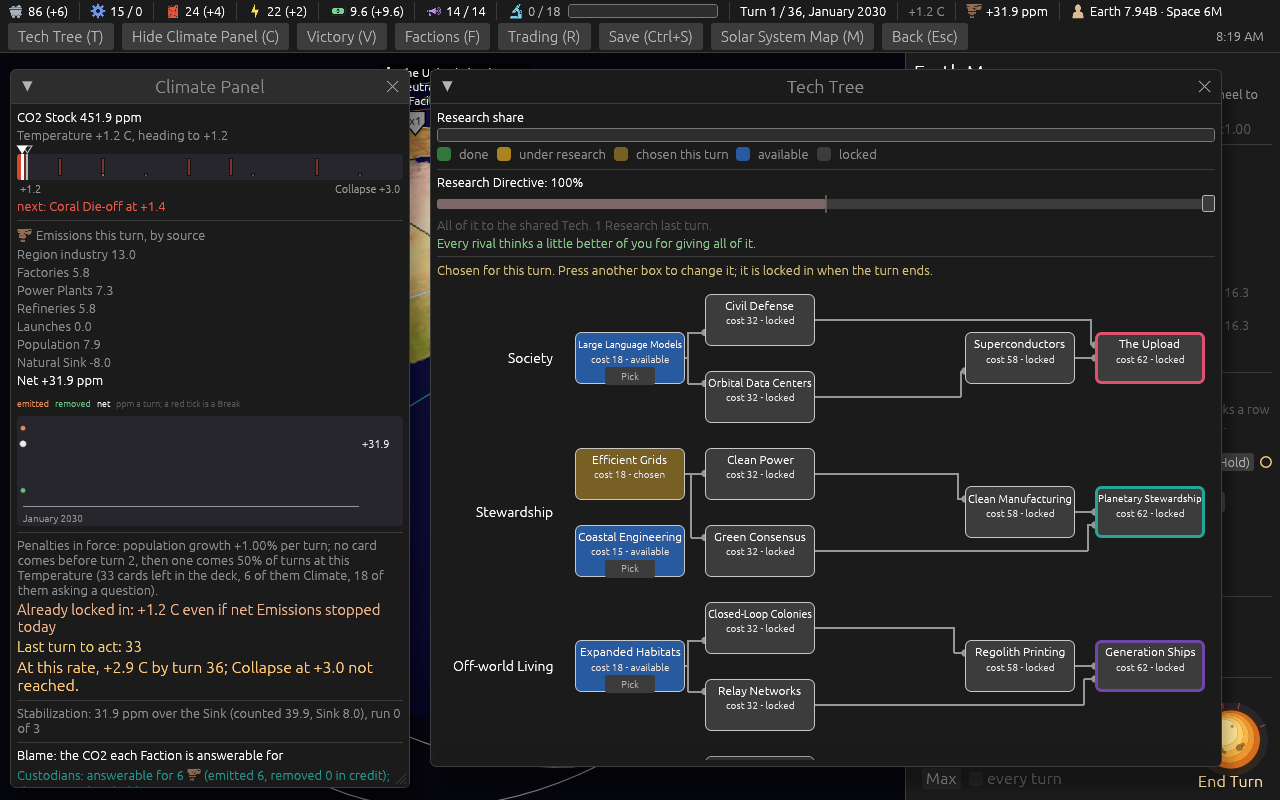
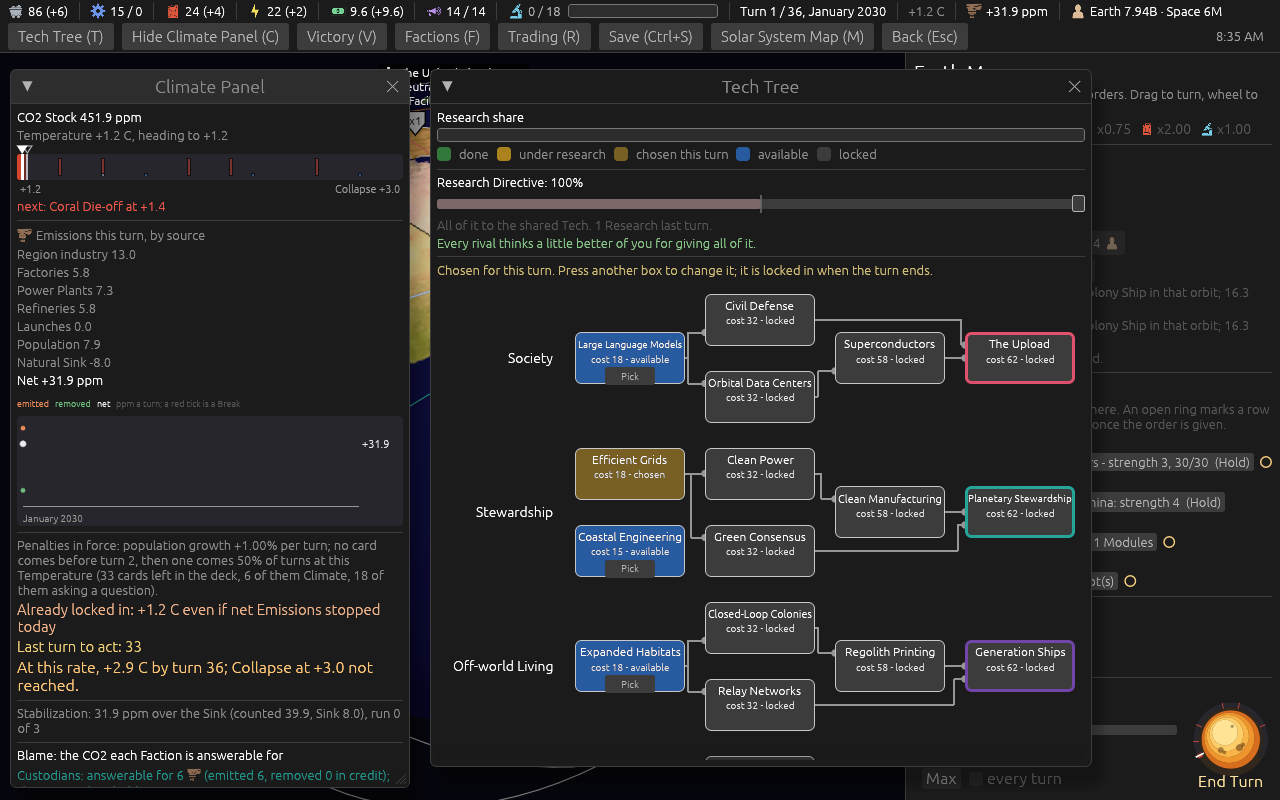
The Tech tree on four rungs, the gates on the fourth (#505)
The designer, on the picture: "there should only be four rungs". A rung is
a column of the drawing and the price is each Tech's own, so the four
58-Research Techs sit on rung 3 beside Hardened Hulls and Missile
Technology at 48, and the gates on rung 4 at 62. No price or prerequisite
moves; the sweep stands. Spec section 6, CONTEXT.md, the diary and the
picture say so.

diff --git a/engine/tests/formulas.rs b/engine/tests/formulas.rs
@@ -4603,7 +4603,7 @@ fn f_coastal_engineering_is_the_thirteenth_tech() {
     // Ticket #426 (version 0.09.5): twenty-five, with Commodity Finance on Extraction rung 2.
     // Ticket #433 (version 0.09.5): twenty-six, with Orbital Data Centers on Society rung 2.
     // Ticket #505 (version 0.1.0.0): twenty-nine, with Regolith Printing, Rail Gun Freight and
-    // Superconductors on rung 4.
+    // Superconductors on rung 3 at 58.
     assert_eq!(TechId::ALL.len(), 29, "thirteen Techs, the four gates, Civil Defense, #232's two, Missile Technology, Nuclear Rockets, Orbital Refuelling, Cryogenic Tanks, Commodity Finance, Orbital Data Centers and #505's three");
     assert_eq!(g.tables.techs.len(), 29, "and twenty-nine rows in techs.toml");
     let c = g.tables.tech(TechId::CoastalEngineering);
@@ -4620,11 +4620,9 @@ fn f_coastal_engineering_is_the_thirteenth_tech() {
     let on_rung = |r: u32| -> Vec<&str> { TechId::ALL.into_iter().map(|t| g.tables.tech(t)).filter(|t| t.branch == "Stewardship" && t.rung == r).map(|t| t.name.as_str()).collect() };
     assert_eq!(on_rung(1), vec!["Efficient Grids", "Coastal Engineering"], "two boxes on Stewardship rung 1");
     assert_eq!(on_rung(2), vec!["Clean Power", "Green Consensus"]);
-    // Ticket #505 (version 0.1.0.0): Clean Manufacturing up to rung 4 and the gate to rung 5, so the
-    // line's rung 3 is empty.
-    assert!(on_rung(3).is_empty(), "nothing on Stewardship rung 3 since ticket #505");
-    assert_eq!(on_rung(4), vec!["Clean Manufacturing"]);
-    assert_eq!(on_rung(5), vec!["Planetary Stewardship"]);
+    // Ticket #505 (version 0.1.0.0): the gate to rung 4, so Clean Manufacturing has rung 3 to itself.
+    assert_eq!(on_rung(3), vec!["Clean Manufacturing"]);
+    assert_eq!(on_rung(4), vec!["Planetary Stewardship"]);
     // The Sea Wall's card names it as its unlock, and there are fifteen Facilities in version
     // 0.08.0: ten through version 0.07, the School on ticket #185, and the four Unique Facilities on
     // tickets #182 to #186 -- the Investment Bank, the Spaceport, the Reactor and the Academy.
@@ -6848,8 +6846,8 @@ fn the_four_gates_stand_on_rung_three_at_one_price_with_their_prerequisites() {
     let g = game();
     let gates = [
         // Ticket #424 (version 0.09.5): the designer's three, the whole road in Stewardship.
-        // Ticket #505 (version 0.1.0.0): every gate on rung 5 at 62, through its branch's rung-4
-        // Tech, which stands in for the rung-2 Tech under it.
+        // Ticket #505 (version 0.1.0.0): every gate on rung 4 at 62, through its branch's 58-Research
+        // rung-3 Tech, which stands in for the rung-2 Tech under it.
         (FactionKind::Custodians, TechId::PlanetaryStewardship, vec![TechId::CleanManufacturing, TechId::GreenConsensus]),
         // Ticket #242 (version 0.08.3): Beneficiation joined, so the new Tech sits in the
         // branch's spine rather than being a leaf nobody has to take.
@@ -6869,10 +6867,10 @@ fn the_four_gates_stand_on_rung_three_at_one_price_with_their_prerequisites() {
     // ticket guards is that no Faction's gate is dearer than another's, so the figure is checked
     // against the rung rather than against a literal repeated four times.
     let gate_cost = g.tables.tech(TechId::PlanetaryStewardship).cost;
-    assert_eq!(gate_cost, 62, "the gates cost 62 on rung 5 since ticket #505 (version 0.1.0.0); 48 on rung 3 since #231, 45 from #142, 44 from #117, 40 before");
+    assert_eq!(gate_cost, 62, "the gates cost 62 on rung 4 since ticket #505 (version 0.1.0.0); 48 on rung 3 since #231, 45 from #142, 44 from #117, 40 before");
     for (kind, t, needs) in gates {
         let card = g.tables.tech(t);
-        assert_eq!(card.rung, 5, "{t:?}");
+        assert_eq!(card.rung, 4, "{t:?}");
         assert_eq!(card.cost, gate_cost, "every gate costs the same: {t:?}");
         assert_eq!(card.gate_for, Some(kind), "{t:?}");
         assert_eq!(card.needs, needs, "{t:?}");
@@ -6897,7 +6895,7 @@ fn the_four_gates_stand_on_rung_three_at_one_price_with_their_prerequisites() {
     // so the whole Archive chain sits behind those four.
     // Ticket #424 (version 0.09.5): the Archivists' two, all in Society; the Custodians' three,
     // all in Stewardship.
-    // Ticket #505 (version 0.1.0.0): four each, the rung-4 Tech on every road.
+    // Ticket #505 (version 0.1.0.0): four each, the 58-Research Tech on every road.
     assert_eq!(depth(TechId::TheUpload), 4, "the Archivists' gate, two deep since ticket #424, three since #433, four since #505");
     assert_eq!(depth(TechId::PlanetaryStewardship), 4, "the Custodians', three since ticket #424, four since #505");
     // Ticket #425 (version 0.09.5): Clean Power off Closed-Loop Colonies, Efficient Grids off
@@ -10583,12 +10581,14 @@ fn the_tree_costs_eighteen_thirty_two_and_forty_eight_by_rung() {
         if t == TechId::CoastalEngineering || t == TechId::NuclearRockets || t == TechId::OrbitalRefuelling {
             continue;
         }
-        // Ticket #505 (version 0.1.0.0): rung 4 at 58 and the gates' rung 5 at 62.
+        // Ticket #505 (version 0.1.0.0): rung 3 holds four Techs at 58 beside its 48s -- a rung is a
+        // column, the price each Tech's own -- and the gates' rung 4 costs 62.
+        let fifty_eight = [TechId::CleanManufacturing, TechId::RegolithPrinting, TechId::RailGunFreight, TechId::Superconductors];
         let want = match card.rung {
             1 => 18,
             2 => 32,
+            3 if fifty_eight.contains(&t) => 58,
             3 => 48,
-            4 => 58,
             _ => 62,
         };
         assert_eq!(card.cost, want, "rung {} costs {want}: {t:?}", card.rung);
@@ -10596,7 +10596,7 @@ fn the_tree_costs_eighteen_thirty_two_and_forty_eight_by_rung() {
     let total: i64 = TechId::ALL.into_iter().map(|t| g.tables.tech(t).cost).sum();
     assert_eq!(g.tables.tech(TechId::NuclearRockets).cost, 38, "priced above its rung");
     assert_eq!(g.tables.tech(TechId::OrbitalRefuelling).cost, 22, "priced above its rung");
-    assert_eq!(total, 1093, "the whole tree since ticket #505's five rungs (the gates 48 to 62, Clean Manufacturing 48 to 58, three new at 58); 853 since ticket #433's Orbital Data Centers (32 on rung 2); 821 from #426's Commodity Finance (32 on rung 2); 789 from #420's Cryogenic Tanks (32 on rung 2); 757 from #413's Orbital Refuelling (22 on rung 1); 735 from #393, 697 from #343, 649 from #232, 585 from #231, 554 from #201, 507 before that");
+    assert_eq!(total, 1093, "the whole tree since ticket #505's fourth rung (the gates 48 to 62, Clean Manufacturing 48 to 58, three new at 58); 853 since ticket #433's Orbital Data Centers (32 on rung 2); 821 from #426's Commodity Finance (32 on rung 2); 789 from #420's Cryogenic Tanks (32 on rung 2); 757 from #413's Orbital Refuelling (22 on rung 1); 735 from #393, 697 from #343, 649 from #232, 585 from #231, 554 from #201, 507 before that");
 }
 
 // ------------------------------------------------------- 0.08.1 ticket #208: the School's step
@@ -18398,7 +18398,7 @@ fn four_prerequisites_moved_at_the_designers_word() {
     assert_eq!(t.tech(TechId::EfficientTransit).needs, vec![TechId::OrbitalRefuelling], "Orbital Refuelling in place of Clean Propellant");
     assert!(!t.gate_chain(FactionKind::Prospectors).contains(&TechId::EfficientGrids), "the Charter no longer reaches Efficient Grids");
     assert!(!t.gate_chain(FactionKind::Arkwrights).contains(&TechId::CleanPower), "Generation Ships no longer reaches Clean Power");
-    // Ticket #505 (version 0.1.0.0): 202 each, the rung-4 Tech and the gate at 62 on every road.
+    // Ticket #505 (version 0.1.0.0): 202 each, the 58-Research Tech and the gate at 62 on every road.
     assert_eq!(price(FactionKind::Prospectors), 202, "Deep Mining, Automated Refining, Commodity Finance, Rail Gun Freight and the Charter; 130 before #505, 148 before #425");
     // Ticket #438 (version 0.09.6): 130 since Generation Ships needs Relay Networks as well.
     assert_eq!(price(FactionKind::Arkwrights), 202, "Expanded Habitats, Closed-Loop Colonies, Relay Networks, Regolith Printing and Generation Ships; 130 before #505, 98 before #438");
@@ -21346,26 +21346,28 @@ fn ticket_502_a_missing_gulf_refuses_the_table() {
     let _ = std::fs::remove_dir_all(&dir);
 }
 
-// ---------------------------------------------------------------- Ticket #505 (version 0.1.0.0): the gates on rung 5, new rung-4 Techs
+// ---------------------------------------------------------------- Ticket #505 (version 0.1.0.0): the gates on rung 4, new 58-Research Techs on rung 3
 
-/// Ticket #505: **five rungs.** Rung 4 costs 58 and holds Clean Manufacturing (up from rung 3) and
-/// three new Techs, one to a branch; the four gates stand on rung 5 at 62, each needing its
-/// branch's rung-4 Tech and the other rung-2 Tech on its road. Every road is 202, the tree 29 Techs
-/// and 1,093 Research. Each computer seat's list opens with its whole road, and the new Techs are
-/// on no rival's list.
+/// Ticket #505: **four rungs, the gates on the fourth.** Rung 3 holds Hardened Hulls and Missile
+/// Technology at 48 and four Techs at 58 -- Clean Manufacturing (raised) and three new, one to a
+/// branch; the four gates stand on rung 4 at 62, each needing its branch's 58-Research Tech and
+/// the other rung-2 Tech on its road. Every road is 202, the tree 29 Techs and 1,093 Research. Each
+/// computer seat's list opens with its whole road, and the new Techs are on no rival's list. (The
+/// 58s were first a rung of their own, the gates a fifth; the designer: "there should only be four
+/// rungs".)
 #[test]
-fn the_gates_stand_on_rung_five_behind_a_rung_four_tech_of_their_own_branch() {
+fn the_gates_stand_on_rung_four_behind_a_fifty_eight_research_tech_of_their_own_branch() {
     let t = tables();
     assert_eq!(TechId::ALL.len(), 29);
     let on_rung = |r: u32| -> Vec<TechId> { TechId::ALL.into_iter().filter(|x| t.tech(*x).rung == r).collect() };
-    assert_eq!(on_rung(4), vec![TechId::CleanManufacturing, TechId::RegolithPrinting, TechId::RailGunFreight, TechId::Superconductors]);
-    assert!(on_rung(4).iter().all(|x| t.tech(*x).cost == 58), "rung 4 costs 58");
-    assert_eq!(on_rung(5), vec![TechId::PlanetaryStewardship, TechId::ExtractionCharter, TechId::GenerationShips, TechId::TheUpload]);
-    assert_eq!(on_rung(3), vec![TechId::HardenedHulls, TechId::MissileTechnology], "Propulsion alone keeps rung 3");
+    assert_eq!(on_rung(3), vec![TechId::CleanManufacturing, TechId::HardenedHulls, TechId::MissileTechnology, TechId::RegolithPrinting, TechId::RailGunFreight, TechId::Superconductors]);
+    assert_eq!(on_rung(3).iter().map(|x| t.tech(*x).cost).collect::<Vec<i64>>(), vec![58, 48, 48, 58, 58, 58], "rung 3: Propulsion's two at 48, the four steps to a gate at 58");
+    assert_eq!(on_rung(4), vec![TechId::PlanetaryStewardship, TechId::ExtractionCharter, TechId::GenerationShips, TechId::TheUpload]);
+    assert_eq!(TechId::ALL.iter().map(|x| t.tech(*x).rung).max(), Some(4), "four rungs and no fifth");
     let fourth = [(FactionKind::Custodians, TechId::CleanManufacturing, TechId::CleanPower), (FactionKind::Prospectors, TechId::RailGunFreight, TechId::AutomatedRefining), (FactionKind::Arkwrights, TechId::RegolithPrinting, TechId::ClosedLoopColonies), (FactionKind::Archivists, TechId::Superconductors, TechId::OrbitalDataCenters)];
     for (k, step, under) in fourth {
         let gate = t.victory_gate(k).unwrap();
-        assert_eq!((t.tech(gate).rung, t.tech(gate).cost), (5, 62), "{k:?}");
+        assert_eq!((t.tech(gate).rung, t.tech(gate).cost), (4, 62), "{k:?}");
         assert_eq!(t.tech(step).needs, vec![under], "{step:?} needs the rung-2 Tech under it alone");
         assert_eq!(t.tech(step).branch, t.tech(gate).branch, "{step:?} is in its gate's branch");
         assert!(t.tech(gate).needs.contains(&step) && !t.tech(gate).needs.contains(&under), "the gate lists {step:?} and not {under:?}, reached through it");

diff --git a/engine/src/ids.rs b/engine/src/ids.rs
@@ -673,7 +673,7 @@ pub enum TechId {
     /// Constabulary adds 10 to the challenge margin where it adds 5 without.
     CivilDefense,
     /// Version 0.06.0 (ticket #84): the four gates, one per Faction, on rung 3 until ticket #505
-    /// (version 0.1.0.0) moved them to rung 5. Each opens its Faction's Victory Condition and is a
+    /// (version 0.1.0.0) moved them to rung 4 at 62. Each opens its Faction's Victory Condition and is a
     /// Tech for everyone besides.
     PlanetaryStewardship,
     ExtractionCharter,
@@ -715,14 +715,14 @@ pub enum TechId {
     /// needs it beside Civil Defense. Observatory Research x1.5, on Large Language Models' and The
     /// Upload's.
     OrbitalDataCenters,
-    /// Ticket #505 (version 0.1.0.0): Off-world Living rung 4, needing Closed-Loop Colonies, at 58;
+    /// Ticket #505 (version 0.1.0.0): Off-world Living rung 3, needing Closed-Loop Colonies, at 58;
     /// Generation Ships needs it. A Module built off Earth costs x0.75 Materials and x0.85 Widgets,
     /// inside the in-situ floor.
     RegolithPrinting,
-    /// Ticket #505 (version 0.1.0.0): Extraction rung 4, needing Automated Refining, at 58; the
+    /// Ticket #505 (version 0.1.0.0): Extraction rung 3, needing Automated Refining, at 58; the
     /// Extraction Charter needs it. Every working Mass Driver pays 3 Ducats a turn.
     RailGunFreight,
-    /// Ticket #505 (version 0.1.0.0): Society rung 4, needing Orbital Data Centers, at 58; The
+    /// Ticket #505 (version 0.1.0.0): Society rung 3, needing Orbital Data Centers, at 58; The
     /// Upload needs it. Every Energy output x1.25, in Efficient Grids' chain.
     Superconductors,
 }

diff --git a/CONTEXT.md b/CONTEXT.md
@@ -191,15 +191,15 @@ The Tech, since version 0.09.4, that adds fifteen Fuel to every Ship's Tank: Pro
 _Avoid_: Deep Tanks (its first name), fuel tanks, extended tanks
 
 **Regolith Printing**:
-The Tech, since version 0.1.0.0, that cuts what a Module costs off Earth: Off-world Living, rung 4, needing Closed-Loop Colonies and needed by Generation Ships, at 58 Research. At a ground Colony on any Body but Earth, or at any Space Station, a Module costs three quarters of its Materials and 85 per cent of its Widgets, inside the Faction's discount and Build Where You Dig, so the floor of half the row still holds; Antarctica pays the full price.
+The Tech, since version 0.1.0.0, that cuts what a Module costs off Earth: Off-world Living, rung 3, needing Closed-Loop Colonies and needed by Generation Ships, at 58 Research. At a ground Colony on any Body but Earth, or at any Space Station, a Module costs three quarters of its Materials and 85 per cent of its Widgets, inside the Faction's discount and Build Where You Dig, so the floor of half the row still holds; Antarctica pays the full price.
 _Avoid_: 3D printing, printed habs, cheap habitats
 
 **Rail Gun Freight**:
-The Tech, since version 0.1.0.0, that makes a Mass Driver pay: Extraction, rung 4, needing Automated Refining and needed by The Extraction Charter, at 58 Research. Every working Mass Driver pays its holder three Ducats a turn, flat, beside its Fuel cut and its Mines' extra Materials.
+The Tech, since version 0.1.0.0, that makes a Mass Driver pay: Extraction, rung 3, needing Automated Refining and needed by The Extraction Charter, at 58 Research. Every working Mass Driver pays its holder three Ducats a turn, flat, beside its Fuel cut and its Mines' extra Materials.
 _Avoid_: railgun commerce, mass driver freight, launch contracts
 
 **Superconductors**:
-The Tech, since version 0.1.0.0, that lifts every Energy output by a quarter: Society, rung 4, needing Orbital Data Centers and needed by The Upload, at 58 Research. It reaches the Power Plant, the Reactor, the Generator, the Solar Array and the Heliostat, in the same chain as Efficient Grids, so the two multiply. Chosen for the Archive's twelve Energy a turn, the dearest upkeep in the game.
+The Tech, since version 0.1.0.0, that lifts every Energy output by a quarter: Society, rung 3, needing Orbital Data Centers and needed by The Upload, at 58 Research. It reaches the Power Plant, the Reactor, the Generator, the Solar Array and the Heliostat, in the same chain as Efficient Grids, so the two multiply. Chosen for the Archive's twelve Energy a turn, the dearest upkeep in the game.
 _Avoid_: superconducting grids, energy tech, power boost
 
 **opens_on**:
@@ -207,7 +207,7 @@ The Region a Faction's card names for the start screen's globe to face. It has o
 _Avoid_: home, capital, start state, homeland
 
 **Tech Tree**:
-The single tree of Techs shared by all Factions: twenty-nine since version 0.1.0.0, which added Regolith Printing, Rail Gun Freight and Superconductors on a fourth rung at 58 Research, moved Clean Manufacturing up to it and the four Victory gates to a fifth rung at 62 (twenty-six from 0.09.5, which added Commodity Finance on Extraction's rung 2 and Orbital Data Centers on Society's, each at 32 Research; twenty-four from 0.09.4, which added Orbital Refuelling on Propulsion's rung 1 at 22 Research and Cryogenic Tanks on its rung 2 at 32, 789 Research in all; twenty-two from 0.09.3, which added Nuclear Rockets on Propulsion's rung 2 at 38 Research; twenty-one from 0.09.1, which added Missile Technology, twenty from 0.08.3, eighteen from 0.08.1, seventeen from 0.06.0), 1,093 Research in all (853 before 0.1.0.0), in five branches, drawn top to bottom: Society, Stewardship (called Industry until version 0.09.5), Off-world Living, Extraction, Propulsion. Since version 0.09.5 each Faction's Victory gate ends a branch of its own: the Archivists' Society, the Custodians' Stewardship, the Arkwrights' Off-world Living, the Prospectors' Extraction. A branch may hold more than one Tech on a rung; two such Techs stack in a taller branch row, so every column is one box wide. One Tech is under research at a time, worldwide. Costs run 18, 32, 48, 58 and 62 by rung since version 0.1.0.0 (18, 32 and 48 from version 0.08.3), with Coastal Engineering at 15 the one exception until version 0.09.3, when Nuclear Rockets at 38 became the second, and version 0.09.4, when Orbital Refuelling at 22 became the third. Four of them are Victory gates, one per Faction, on rung 5 since version 0.1.0.0 (rung 3 before), each behind a rung-4 Tech of its own branch, so every Faction's road to its gate is 202 Research: each is a Tech for everyone, and its Faction cannot win until it stands. Propulsion, which has no gate, ends on rung 3. Since version 0.07.6 a box chosen this turn but not yet committed wears a paler amber than the settled one, reads `chosen`, and has its own Pick button withdrawn.
+The single tree of Techs shared by all Factions: twenty-nine since version 0.1.0.0, which added Regolith Printing, Rail Gun Freight and Superconductors on rung 3 at 58 Research, raised Clean Manufacturing to 58 beside them and moved the four Victory gates to a fourth rung at 62 (twenty-six from 0.09.5, which added Commodity Finance on Extraction's rung 2 and Orbital Data Centers on Society's, each at 32 Research; twenty-four from 0.09.4, which added Orbital Refuelling on Propulsion's rung 1 at 22 Research and Cryogenic Tanks on its rung 2 at 32, 789 Research in all; twenty-two from 0.09.3, which added Nuclear Rockets on Propulsion's rung 2 at 38 Research; twenty-one from 0.09.1, which added Missile Technology, twenty from 0.08.3, eighteen from 0.08.1, seventeen from 0.06.0), 1,093 Research in all (853 before 0.1.0.0), in five branches, drawn top to bottom: Society, Stewardship (called Industry until version 0.09.5), Off-world Living, Extraction, Propulsion. Since version 0.09.5 each Faction's Victory gate ends a branch of its own: the Archivists' Society, the Custodians' Stewardship, the Arkwrights' Off-world Living, the Prospectors' Extraction. A branch may hold more than one Tech on a rung; two such Techs stack in a taller branch row, so every column is one box wide. One Tech is under research at a time, worldwide. A rung is a column of the drawing; the price is each Tech's own. Costs run 18, 32 and 48 by rung since version 0.08.3, with Coastal Engineering at 15 the one exception until version 0.09.3, when Nuclear Rockets at 38 became the second, and version 0.09.4, when Orbital Refuelling at 22 became the third; since version 0.1.0.0 rung 3 also holds four Techs at 58 (Clean Manufacturing, Regolith Printing, Rail Gun Freight, Superconductors), and the gates' rung 4 costs 62. Four of them are Victory gates, one per Faction, on rung 4 since version 0.1.0.0 (rung 3 before), each behind a 58-Research Tech of its own branch, so every Faction's road to its gate is 202 Research: each is a Tech for everyone, and its Faction cannot win until it stands. Propulsion, which has no gate, ends on rung 3. Since version 0.07.6 a box chosen this turn but not yet committed wears a paler amber than the settled one, reads `chosen`, and has its own Pick button withdrawn.
 _Avoid_: per-faction tree, research tree
 
 **Research Lead**:

diff --git a/docs/spec/version-0.1.0.0.md b/docs/spec/version-0.1.0.0.md
@@ -234,40 +234,42 @@ The computer leans toward its Second Objective, as toward its first, once the fi
   the far Body, is what holds them back.
 - The Archivists meet theirs in none of the 20 games where they sit third.
 
-## 6. The Tech tree: five rungs
+## 6. The Tech tree: the gates on a fourth rung
 
 The authority is [ticket #505](https://github.com/whaleyjoshua2/Dying-Earth/issues/505). The
 designer: *"move victory gate techs to level 5 cost of 62 - two new level 4 techs move 2 level 3
-techs - check math on victory gates"*, settled on the ticket as one Tech moved and three new, so
-that every gate has a rung-4 Tech of its own branch under it.
+techs - check math on victory gates"*, settled on the ticket as one Tech raised and three new, so
+that every gate has a 58-Research Tech of its own branch under it; and, on seeing the picture,
+*"there should only be four rungs"*. A rung is a column of the drawing; the price is each Tech's own.
 
-- **Rung 4, at 58 Research**: Clean Manufacturing, up from rung 3, and three new Techs, one to a
-  branch, each the last step before its branch's gate.
+- **Rung 3** keeps Hardened Hulls and Missile Technology at 48 and gains four Techs at 58: Clean
+  Manufacturing, raised from 48, and three new, one to a branch, each the last step before its
+  branch's gate.
 
   | Branch | Tech | Needs | Effect |
   |---|---|---|---|
-  | Stewardship | Clean Manufacturing (moved) | Clean Power | unchanged |
+  | Stewardship | Clean Manufacturing (raised) | Clean Power | unchanged |
   | Off-world Living | **Regolith Printing** | Closed-Loop Colonies | a Module built off Earth (any Body but Earth, or any Space Station) costs x0.75 Materials and x0.85 Widgets, inside the Faction's discount and Build Where You Dig, so the floor of half the row still holds; Antarctica pays the full price |
   | Extraction | **Rail Gun Freight** | Automated Refining | every working Mass Driver pays its holder 3 Ducats a turn, flat |
   | Society | **Superconductors** | Orbital Data Centers | every Energy output x1.25 -- Power Plant, Reactor, Generator, Solar Array, Heliostat -- in Efficient Grids' chain, so the two multiply |
 
-- **The gates on rung 5, at 62**, each needing its branch's rung-4 Tech and the other rung-2 Tech
-  on its road (Green Consensus, Commodity Finance, Relay Networks, Civil Defense). The rung-2 Tech
-  under the rung-4 one is reached through it and no longer listed, by the no-redundant-prerequisites
+- **The gates on rung 4, at 62**, each needing its branch's 58-Research Tech and the other rung-2
+  Tech on its road (Green Consensus, Commodity Finance, Relay Networks, Civil Defense). The rung-2
+  Tech under the 58 one is reached through it and no longer listed, by the no-redundant-prerequisites
   rule.
-- **Hardened Hulls and Missile Technology stay on rung 3.** Propulsion, which has no gate, ends there.
+- **Propulsion**, which has no gate, ends on rung 3.
 - **The arithmetic.** Every road is 18 + 32 + 32 + 58 + 62 = **202** Research, all four alike,
-  from 130. The tree is 29 Techs and 1,093 Research, from 26 and 853. The drawing takes the fifth
+  from 130. The tree is 29 Techs and 1,093 Research, from 26 and 853. The drawing takes the fourth
   rung by itself; nothing else in the interface changed
   ([`ticket-505/tree.png`](../dev-diary/2026-10-07-version-0.1.0.0/ticket-505/tree.png)).
-- **The computer.** Each seat's gate chain takes its rung-4 Tech by itself, and its pick list names
-  it fourth, after its rung-2 pair; the three new Techs are on no rival's list. Hardened Hulls
-  stays at the end of every list. The computer's appetite for a Mass Driver is unchanged.
+- **The computer.** Each seat's gate chain takes its 58-Research Tech by itself, and its pick list
+  names it fourth, after its rung-2 pair; the three new Techs are on no rival's list. Hardened
+  Hulls stays at the end of every list. The computer's appetite for a Mass Driver is unchanged.
 - **Not retuned.** The length is fitted to this tree on the fifty-turn ticket.
 
 **Measured** over the 80 games
 ([`sweeps/ticket-505.txt`](../dev-diary/2026-10-07-version-0.1.0.0/sweeps/ticket-505.txt)),
-against §5's:
+against §5's; the rung numbers moved after the sweep and change no price, so it stands:
 - Wins **3 / 25 / 31 / 1** with **18 collapses**, from 1 / 18 / 49 / 1 and 10. The Arkwrights
   lost 18 wins and the Prospectors gained 7; collapses nearly doubled. A real move, toward the ideal.
 - Every gate completes later and in fewer games: Custodians 68 of 80 at a median turn 25 (71 at

diff --git a/docs/dev-diary/2026-10-07-version-0.1.0.0/README.md b/docs/dev-diary/2026-10-07-version-0.1.0.0/README.md
@@ -44,16 +44,17 @@ from 2 / 23 / 30 / 2 and 20. Far past noise, away from the ideal.
 **Found on the way.** The sweep's per-Body tally read only the first six Bodies, so the first run
 reported no Colony on any new world; fixed, and the batch rerun to the same win column.
 
-## The Tech tree: five rungs (#505)
+## The Tech tree: the gates on a fourth rung (#505)
 
-Clean Manufacturing up to a fourth rung at 58 beside three new Techs (Regolith Printing, Rail Gun
-Freight, Superconductors), the four Victory gates on a fifth at 62; every road 202 Research from
-130. Spec section 6.
+Four Techs at 58 on rung 3 (Clean Manufacturing raised; Regolith Printing, Rail Gun Freight and
+Superconductors new) beside Propulsion's two at 48, the four Victory gates on a fourth rung at 62;
+every road 202 Research from 130. Spec section 6.
 
 **The picture** ([`ticket-505/`](ticket-505/)): [`tree.png`](ticket-505/tree.png), the Tech Tree
-window on turn 1, the Custodians' seat. The fourth column holds the three new Techs and Clean
-Manufacturing; the gates stand in a fifth, each boxed in its Faction's colour; rung 3 is empty in
-the three branches shown, since only Propulsion (below, scrolled) keeps a Tech there.
+window on turn 1, the Custodians' seat. The third column holds the three new Techs and Clean
+Manufacturing; the gates stand in a fourth, each boxed in its Faction's colour. The first picture
+had the 58s in a column of their own and the gates in a fifth, which left a blank column through the
+three gated branches; the designer: "there should only be four rungs".
 
 **The sweep** ([`sweeps/ticket-505.txt`](sweeps/ticket-505.txt)): 3 / 25 / 31 / 1 and 18
 collapses, from 1 / 18 / 49 / 1 and 10. Every gate lands two to three turns later; the tree
